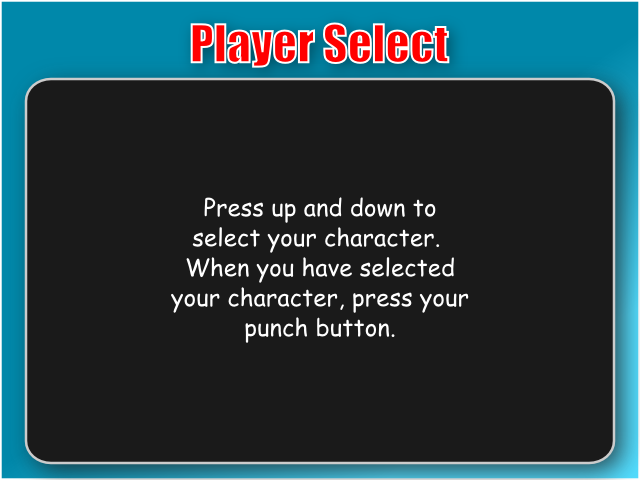
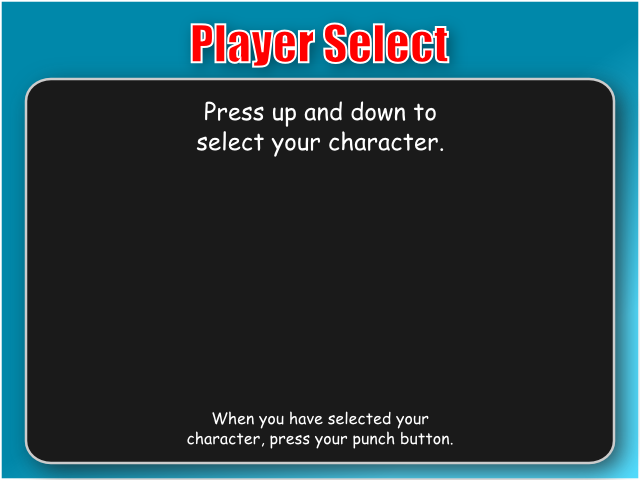
Added prettier player selection sprites (Finished Issue 18)

diff --git a/src/PlayerSelect.cpp b/src/PlayerSelect.cpp
@@ -20,17 +20,22 @@ using namespace std;
 const int kPlayerTopMargin = 99;
 const int kPlayerSideMargin = 64;
 const int kPlayerMargin = 32;
+const int kElementMargin = 8;
 
 PlayerSelect::PlayerSelect()
 {
-    vector<string> playerConfig;
+    vector<string> config;
     vector<string>::const_iterator i;
     
-    background = new Surface("images/playerselect.png");
+    // Load selection images
+    config = LoadConfigFile("pselect-paths.txt");
+    background = new Surface(config[0]);
+    choice = new Surface(config[1]);
+    ready = new Surface(config[2]);
     // Read player file
-    playerConfig = LoadConfigFile("players.txt");
+    config = LoadConfigFile("players.txt");
     // Load images (left side only)
-    for (i = playerConfig.begin() + 1; i < playerConfig.end(); i += 2)
+    for (i = config.begin() + 1; i < config.end(); i += 2)
     {
         players.push_back(new Surface(*i));
     }
@@ -93,7 +98,7 @@ CrabBattle::State *PlayerSelect::Update(void)
 void PlayerSelect::Display(Surface *screen)
 {
     vector<Surface *>::const_iterator i;
-    Rect pos;
+    Rect pos, elemPos;
     int currY = kPlayerTopMargin;
     
     screen->Fill(screen->GetRect(), 0, 0, 0); // Clear screen
@@ -105,9 +110,17 @@ void PlayerSelect::Display(Surface *screen)
         if ((i - players.begin()) == p1Choice)
         {
             if (p1Done)
-                screen->Fill(pos, 255, 0, 0);
+            {
+                screen->Blit(ready,
+                             pos.GetRight() + kElementMargin,
+                             pos.GetVerticalCenter() - ready->GetHeight() / 2.0);
+            }
             else
-                screen->Fill(pos, 255, 255, 255);
+            {
+                screen->Blit(choice,
+                             pos.GetRight() + kElementMargin,
+                             pos.GetVerticalCenter() - choice->GetHeight() / 2.0);
+            }
         }
         screen->Blit((*i), pos);
         // Blit Side 2
@@ -116,9 +129,17 @@ void PlayerSelect::Display(Surface *screen)
         if ((i - players.begin()) == p2Choice)
         {
             if (p2Done)
-                screen->Fill(pos, 255, 0, 0);
+            {
+                screen->Blit(ready,
+                             pos.GetLeft() - kElementMargin - ready->GetWidth(),
+                             pos.GetVerticalCenter() - ready->GetHeight() / 2.0);
+            }
             else
-                screen->Fill(pos, 255, 255, 255);
+            {
+                screen->Blit(choice,
+                             pos.GetLeft() - kElementMargin - choice->GetWidth(),
+                             pos.GetVerticalCenter() - choice->GetHeight() / 2.0);
+            }
         }
         screen->Blit((*i), pos);
         // Advance to next position

diff --git a/src/PlayerSelect.h b/src/PlayerSelect.h
@@ -19,7 +19,7 @@ namespace CrabBattle
     class PlayerSelect : public State
     {
     private:
-        Surface *background;
+        Surface *background, *choice, *ready;
         std::vector<Surface *> players;
         unsigned short p1Choice, p2Choice;
         bool goBack, p1Done, p2Done;
